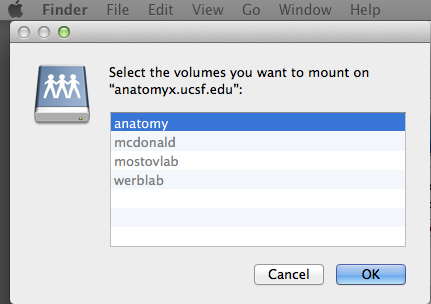
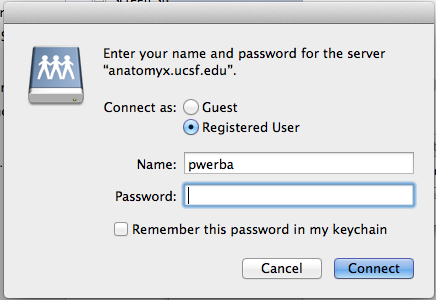
updated added step4

diff --git a/connecting_to_server.md b/connecting_to_server.md
@@ -7,17 +7,30 @@ or from home you must be using UCSF VPN link <https://it.ucsf.edu/services/vpn>
 supported MAC OS (10.5, 10.6 10.7 10.8 10.9)
 
 ## Step One
-From your mac in the finder go to the "GO" Menu and select Connect to Server...
+In the Finder select Connect to Server from the Go menu (command-k).
+
 ![step one](img/server_step1.png)
 
 ## Step Two
-Type the address of the server in the Server Address bar make sure to start the server address
-with smb://servername.host 
+
+Type in the address of the server:  smb://server.ucsf.edu/folder
+NOTE: It is important to use SMB:// before the server address
 
 ![step two](img/server_step2.png)
 
 ## Step Three
-You will see a list of "shares" Choose the share you wish to connect to and then hit "OK"
-NOTE a share that is greyd out is likey one you have already mounted or may not have access to
+
+When prompted enter in your UCSF email username and password.
+NOTE: this would be the same credentials you use when logging into UCSF webmail.
 
 ![step three](img/server_step3.png)
+
+Click the "connect" button
+
+## Step Four
+
+You are now presented with a list of avaliable shares. Choose the share you wish to be connected to and click "OK"
+
+NOTE: You may not have full access to each share that is shown if a sharepoint shows up ad grey it most likey means that you are already connected to the share.
+
+![step three](img/server_step4.png)
